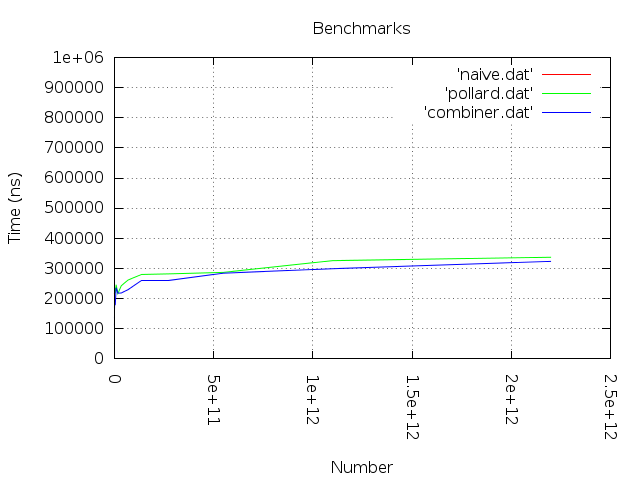
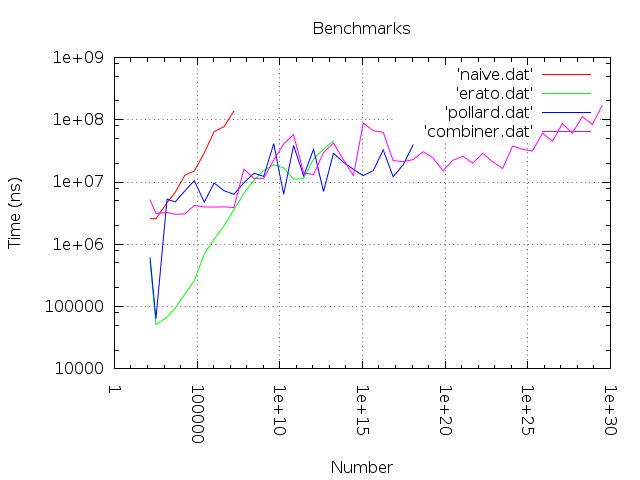
Nu genereras en ganska snygg loglog-plot med de 4 faktoriseringsmetoderna.

diff --git a/ecklim/src/Tester.java b/ecklim/src/Tester.java
@@ -14,7 +14,7 @@ public class Tester{
         try{
             f = Util.getFactorizer(args);
         }catch(ClassNotFoundException e){
-            f = new NaiveEratost2();
+            f = new Naive();
         }finally{
             factorizer = f;
             System.err.println("Using "+factorizer.getClass().getName()+".");
@@ -34,31 +34,74 @@ public class Tester{
     private List<Result> benchmark(Factorizer factorizer){
         List<Result> results;
         /* Get raw results */
-        int samples = 1000;
+        //int samples = 1000;
         //results = testInterval("2","10000",3,factorizer);
-        results = randomResults(1,40,samples,factorizer);
+        results = dualFactorResults(3,60,factorizer);
         /* Process the results */
         List<Result> processedResults = new ArrayList<Result>();
-        Iterator<Result> it = results.iterator();
+        final Iterator<Result> it = results.iterator();
         while(it.hasNext()){
-            long averageTime = 0;
-            Result element = null;
-            int failures = 0;
-            for(int i = 0;i < samples;i++){
-                element = it.next();
-                if(!element.succeeded){
-                    failures++;
-                }
-                averageTime += element.nanoseconds;
-            }
-            if((double)failures/samples > 0.01){ // Fault tolerance.
-                System.err.println("Failed around "+element.number+".");
-                break;
-            }else{
-                processedResults.add(new Result(element.number,element.factors,averageTime/samples,element.factorizer));
+            Result r = it.next();
+            if(r.succeeded/* && !r.factorizer.getClass().getName().equals("Naive")*/){
+                processedResults.add(r);
             }
         }
+//        Iterator<Result> it = results.iterator();
+//        while(it.hasNext()){
+//            long averageTime = 0;
+//            Result element = null;
+//            int failures = 0;
+//            for(int i = 0;i < samples;i++){
+//                element = it.next();
+//                if(!element.succeeded){
+//                    failures++;
+//                }
+//                averageTime += element.nanoseconds;
+//            }
+//            if((double)failures/samples > 0.01){ // Fault tolerance.
+//                System.err.println("Failed around "+element.number+".");
+//                break;
+//            }else{
+//                processedResults.add(new Result(element.number,element.factors,averageTime/samples,element.factorizer));
+//            }
+//        }
         return processedResults;
+    }
+
+    private List<Result> dualFactorResults(int lowerExponent,int upperExponent,Factorizer factorizer){
+        List<Result> results = new ArrayList<Result>();
+        for(int i = lowerExponent;i <= upperExponent;i++){
+            BigInteger composite = dualFactorProduct(i,factorizer);
+            Result result = compute(composite.toString(),factorizer);
+            if(result.succeeded){
+                System.err.println("Succeeded:\t"+result.number);
+            }else{
+                System.err.println("Failed:\t\t"+result.number);
+            }
+            results.add(result);
+        }
+        return results;
+    }
+
+    /**
+     * @return The product of two primes on the interval [2^e,2^(e+1)-1].
+     */
+    private BigInteger dualFactorProduct(final int e,final Factorizer factorizer){
+        BigInteger upper = new BigInteger("2").pow(e+1).subtract(BigInteger.ONE);
+        List<BigInteger> primes = new ArrayList<BigInteger>();
+        for(BigInteger i = new BigInteger("2").pow(e);i.compareTo(upper) < 0;i = i.add(BigInteger.ONE)){
+            if(i.isProbablePrime(100)){
+                primes.add(i);
+                if(primes.size() == 2){
+                    break;
+                }
+            }
+        }
+        if(primes.size() != 2){
+            throw new RuntimeException("Did not find 2 primes.");
+        }
+        BigInteger product = primes.get(0).multiply(primes.get(1));
+        return product;
     }
 
     private List<Result> randomResults(int lowerExponent,int upperExponent,int iterations,Factorizer factorizer){
@@ -196,7 +239,7 @@ public class Tester{
         }
 
         public String toStringNumberTime(){
-            final int padding = Math.max(0,20-number.toString().length());
+            final int padding = Math.max(0,90-number.toString().length());
             final StringBuilder sb = new StringBuilder();
             for(int i = 0;i < padding;i++){
                 sb.append(' ');

diff --git a/ecklim/src/UglyGauss.java b/ecklim/src/UglyGauss.java
@@ -135,13 +135,13 @@ public class UglyGauss {
     				}
     			}
     		}
-    		System.out.println("SolCount " + solutionCount);
+    		//System.err.println("SolCount " + solutionCount);
     		solutionCount++;
-    		System.out.println("SolCount " + solutionCount);
+    		//System.err.println("SolCount " + solutionCount);
     		return sol;
     	}
     	else {
-    		System.out.println("Out of solutions");
+    		//System.err.println("Out of solutions");
     		return null;
     	}
     }
@@ -207,8 +207,8 @@ public class UglyGauss {
 			}
 			result[i] = sum;
 		}
-		System.out.println("HEJ:");
-		System.out.println(Arrays.toString(result));
+		//System.err.println("HEJ:");
+		//System.err.println(Arrays.toString(result));
 	}
 
     /*public static void main(String[] args) {

diff --git a/ecklim/src/Run.java b/ecklim/src/Run.java
@@ -7,7 +7,7 @@ public class Run{
         try{
             factorizer = Util.getFactorizer(args);
         }catch(ClassNotFoundException e){
-            //factorizer = new NaiveEratost2();
+            //factorizer = new Naive();
             factorizer = new Pollard();
         }
 		List<BigInteger> input = Util.read();
